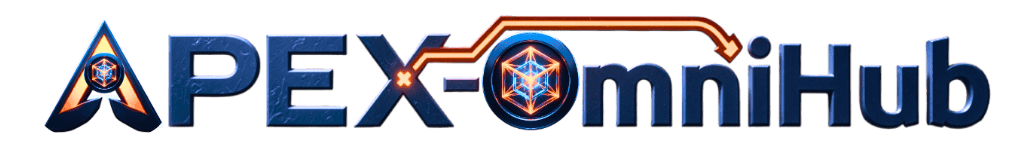
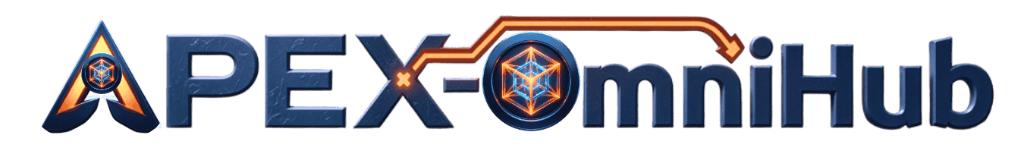
Fix/branding assets correction (#242)
* feat: Implement OmniHub Connector Kit with UI, Registry, and Key Management

* fix: Resolve CI build errors, lint issues, and SonarQube smells

* fix(ci): Resolve PostCSS config error and missing deps

* fix: Final TypeScript audit and CI remediation

* fix(sonar): Remove redundant type assertion and use Json type

* fix: correct branding assets and favicon reference

- Overwrite favicon.png and wordmark with correct PNGs

- Fix index.html to point to /favicon.png

- Remove large unused apex-omnihub-icon.png

* fix: resolve lint errors in registry.ts and Integrations.tsx

Changed region(s): [[0.0312, 0.1081, 0.9688, 0.9189]]

diff --git a/index.html b/index.html
@@ -12,7 +12,7 @@
 
   <!-- PWA -->
   <link rel="manifest" href="/manifest.webmanifest" />
-  <link rel="icon" href="/apex-omnihub-icon.png" type="image/png" />
+  <link rel="icon" href="/favicon.png" type="image/png" />
   <link rel="alternate icon" href="/favicon.png" type="image/png" />
   <meta name="theme-color" content="#000000" />
   <!-- iOS App Icons -->

diff --git a/src/pages/Integrations.tsx b/src/pages/Integrations.tsx
@@ -115,7 +115,7 @@ const Integrations = () => {
 
       toast.success(`${integration.name} integration disconnected`);
       fetchIntegrations();
-    } catch (error) {
+    } catch (error: unknown) {
       console.error('Error disconnecting integration:', error);
       toast.error('Failed to disconnect integration');
     }

diff --git a/src/omniconnect/core/registry.ts b/src/omniconnect/core/registry.ts
@@ -11,7 +11,8 @@ export interface IntegrationDef {
   name: string;
   type: string;
   description: string;
-  icon: LucideIcon;
+  // eslint-disable-next-line @typescript-eslint/no-explicit-any
+  icon: any;
   requiresApiKey: boolean;
   requiresUsername?: boolean;
   scopes?: string[];
